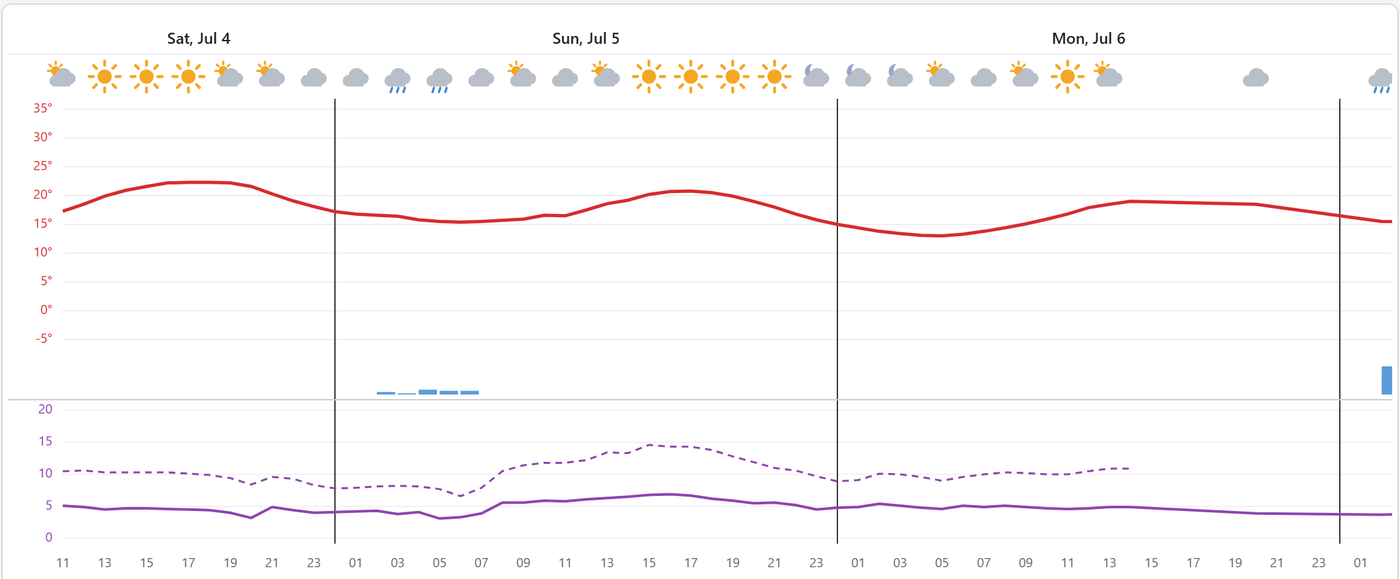
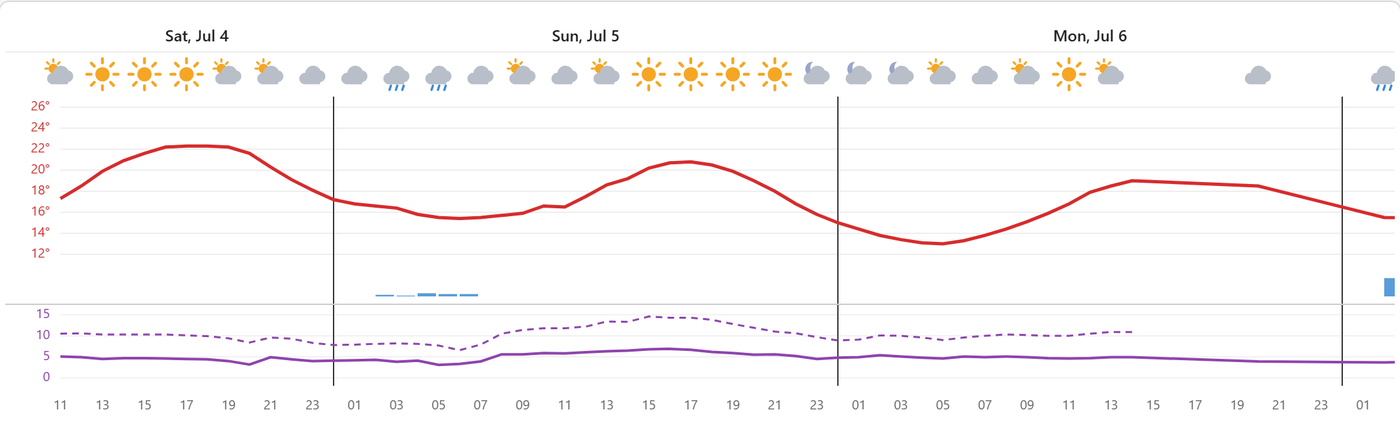
Meteogram: dynamic y-axis ranges and pane heights
Temperature axis now fits the data (floor/ceil to nice steps around the
actual min/max with a 6 deg minimum span) instead of forcing 0 into range
and padding a full step each end, which left the line floating in empty
space. Pane heights derive from the gridline count (px-per-tick x intervals)
rather than fixed 230/110px, so each pane is only as tall as its data needs.
Tuned tick spacing to favour 2 deg gridlines. Refresh README screenshot.

diff --git a/src/meteogram.ts b/src/meteogram.ts
@@ -7,8 +7,11 @@ interface Layout {
   marginRight: number;
   dayLabelHeight: number;
   iconRowHeight: number;
-  tempPaneHeight: number;
-  windPaneHeight: number;
+  pxPerTempTick: number;
+  pxPerWindTick: number;
+  precipBandHeight: number;
+  panePadTop: number;
+  panePadBottom: number;
   axisHeight: number;
 }
 
@@ -18,8 +21,13 @@ const LAYOUT: Layout = {
   marginRight: 42,
   dayLabelHeight: 22,
   iconRowHeight: 34,
-  tempPaneHeight: 230,
-  windPaneHeight: 110,
+  // Vertical spacing between gridlines — pane heights are derived from these
+  // times the number of ticks, so each pane is only as tall as its data needs.
+  pxPerTempTick: 16,
+  pxPerWindTick: 16,
+  precipBandHeight: 38,
+  panePadTop: 8,
+  panePadBottom: 6,
   axisHeight: 24,
 };
 
@@ -40,7 +48,7 @@ export function renderMeteogram(container: HTMLElement, points: ForecastPoint[])
     return;
   }
 
-  const { pxPerHour, marginLeft, marginRight, dayLabelHeight, iconRowHeight, tempPaneHeight, windPaneHeight, axisHeight } =
+  const { pxPerHour, marginLeft, marginRight, dayLabelHeight, iconRowHeight, pxPerTempTick, pxPerWindTick, precipBandHeight, panePadTop, panePadBottom, axisHeight } =
     LAYOUT;
   const headerHeight = dayLabelHeight + iconRowHeight;
 
@@ -49,33 +57,46 @@ export function renderMeteogram(container: HTMLElement, points: ForecastPoint[])
   const lastTime = last.time.getTime() + last.stepHours * 3600_000;
   const totalHours = (lastTime - firstTime) / 3600_000;
   const width = Math.ceil(marginLeft + marginRight + totalHours * pxPerHour);
-  const totalHeight = headerHeight + tempPaneHeight + windPaneHeight + axisHeight;
 
   const xScale = (t: number) => marginLeft + ((t - firstTime) / 3600_000) * pxPerHour;
 
-  // --- temperature scale ---
+  // --- temperature scale (range fits the data, so the line fills the pane) ---
   const temps = points.map((p) => p.temperature).filter((v): v is number => v !== null);
-  const tempStep = niceStep(Math.max(4, Math.max(...temps) - Math.min(...temps)), 5);
-  const minTemp = Math.floor(Math.min(...temps, 0) / tempStep) * tempStep - tempStep;
-  const maxTemp = Math.ceil(Math.max(...temps) / tempStep) * tempStep + tempStep;
-  const tempTop = headerHeight + 8;
-  const tempBottom = headerHeight + tempPaneHeight - 46;
+  // Enforce a minimum span so a nearly-flat day isn't zoomed into noise.
+  // A higher target favours 2° gridlines for typical day-to-day ranges.
+  const tempStep = niceStep(Math.max(6, Math.max(...temps) - Math.min(...temps)), 8);
+  let minTemp = Math.floor(Math.min(...temps) / tempStep) * tempStep;
+  let maxTemp = Math.ceil(Math.max(...temps) / tempStep) * tempStep;
+  if (maxTemp - minTemp < 2 * tempStep) maxTemp = minTemp + 2 * tempStep; // keep >=2 gridlines
+  const tempIntervals = Math.round((maxTemp - minTemp) / tempStep);
+
+  // --- pane heights derive from the gridline count (dynamic to the data) ---
+  const tempPlot = tempIntervals * pxPerTempTick;
+  const tempTop = headerHeight + panePadTop;
+  const tempBottom = tempTop + tempPlot;
+  const tempPaneHeight = panePadTop + tempPlot + precipBandHeight;
   const yTemp = (t: number) => tempBottom - ((t - minTemp) / (maxTemp - minTemp)) * (tempBottom - tempTop);
 
   // --- precipitation scale (bars grow up from the bottom of the temp pane) ---
   const precipVals = points.map((p) => p.precipitation ?? 0);
   const maxPrecip = Math.max(2, ...precipVals) * 1.35;
-  const precipBase = headerHeight + tempPaneHeight - 4;
-  const precipTop = tempBottom + 8;
+  const precipBase = headerHeight + tempPaneHeight - panePadBottom;
+  const precipTop = tempBottom + 10;
   const yPrecip = (mm: number) => precipBase - (mm / maxPrecip) * (precipBase - precipTop);
 
-  // --- wind scale ---
+  // --- wind scale (0-based, top fits the data) ---
   const windVals = points.flatMap((p) => [p.windSpeed ?? 0, p.windGust ?? 0]);
-  const windStep = niceStep(Math.max(4, Math.max(...windVals)), 3);
-  const maxWind = Math.ceil(Math.max(4, ...windVals) / windStep) * windStep + windStep;
-  const windTop = headerHeight + tempPaneHeight + 8;
-  const windBottom = headerHeight + tempPaneHeight + windPaneHeight - 4;
+  const windStep = niceStep(Math.max(4, Math.max(...windVals)), 5);
+  let maxWind = Math.ceil(Math.max(4, ...windVals) / windStep) * windStep;
+  if (maxWind < 2 * windStep) maxWind = 2 * windStep;
+  const windIntervals = Math.round(maxWind / windStep);
+  const windPlot = windIntervals * pxPerWindTick;
+  const windTop = headerHeight + tempPaneHeight + panePadTop;
+  const windBottom = windTop + windPlot;
+  const windPaneHeight = panePadTop + windPlot + panePadBottom;
   const yWind = (v: number) => windBottom - (v / maxWind) * (windBottom - windTop);
+
+  const totalHeight = headerHeight + tempPaneHeight + windPaneHeight + axisHeight;
 
   // --- build line paths ---
   let tempPath = "";